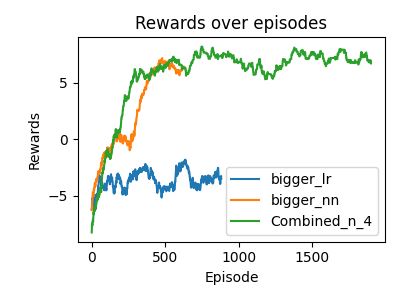
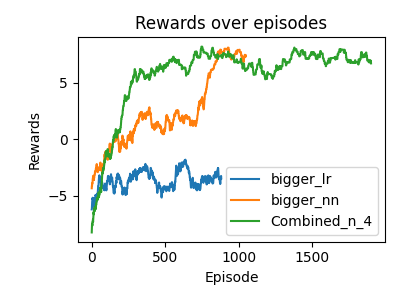
new plots

diff --git a/src/hockey-env/Agents/Tapas_en_Mallorca/Adaptative_Dueling_Double_DQN/Agent.py b/src/hockey-env/Agents/Tapas_en_Mallorca/Adaptative_Dueling_Double_DQN/Agent.py
@@ -52,7 +52,7 @@ class Adaptative_Dueling_Double_DQN_better_mem(Agent):
         }
 
         self._config.update(userconfig)
-
+        self.n_gamma = self._config["discount"] ** self._config["n_steps"]
         random.seed(self._config["seed"])
         np.random.seed(self._config["seed"])
         torch.manual_seed(self._config["seed"])
@@ -253,7 +253,7 @@ class Adaptative_Dueling_Double_DQN_better_mem(Agent):
                             n_v_prime = self.Q.Q_value(n_s_prime_tensor, n_a_prime_tensor) 
 
                         # Target
-                        n_td_target = (n_rew + self._config["discount"] * (1.0 - n_done) * n_v_prime.detach().numpy())
+                        n_td_target = (n_rew + self.n_gamma * (1.0 - n_done) * n_v_prime.detach().numpy())
                         
                         
 
